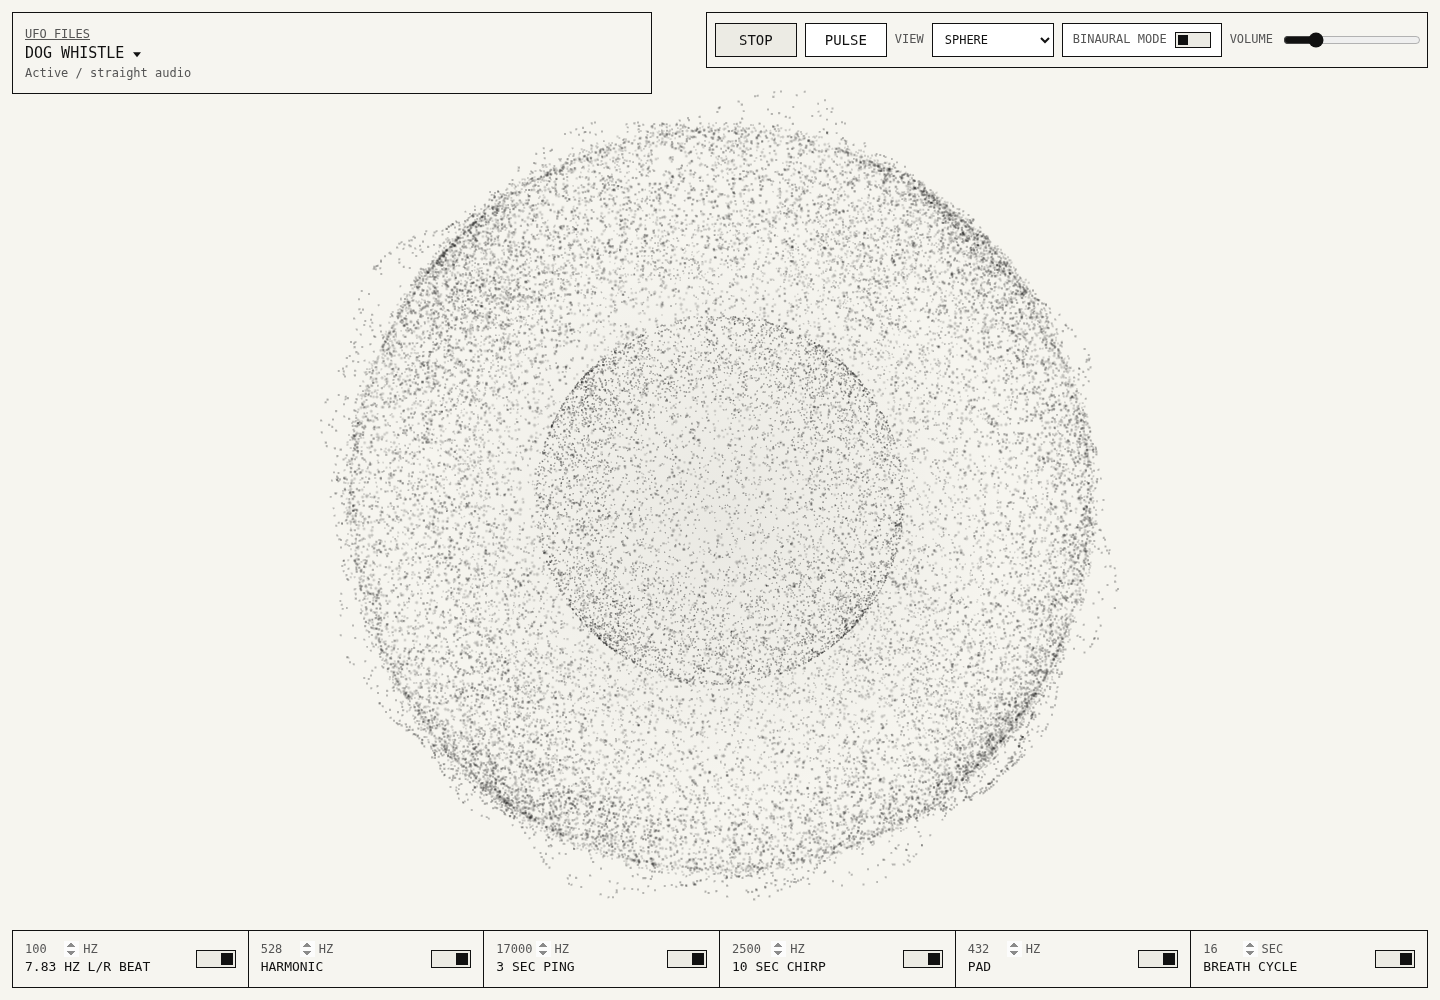
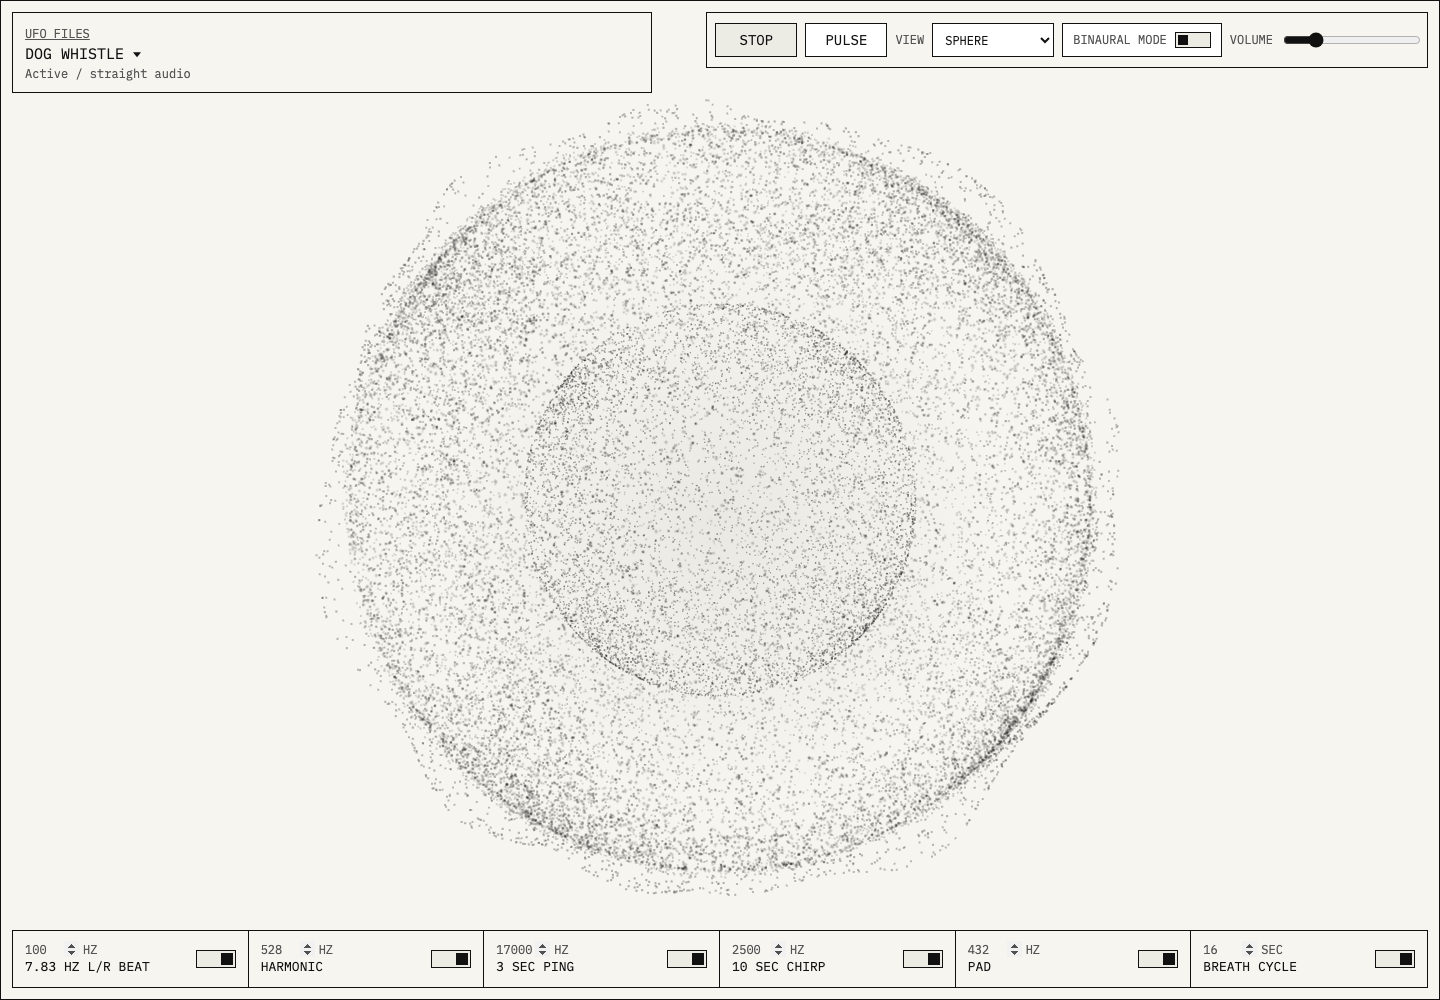
Add screenshot outline

diff --git a/scripts/capture_screenshots.js b/scripts/capture_screenshots.js
@@ -55,6 +55,24 @@ async function setVisualization(page, mode) {
 }
 
 async function capture(page, name) {
+  await page.evaluate(() => {
+    if (!document.getElementById("screenshot-outline-style")) {
+      const style = document.createElement("style");
+      style.id = "screenshot-outline-style";
+      style.textContent = `
+        html.screenshot-outline::after {
+          content: "";
+          position: fixed;
+          inset: 0;
+          border: 1px solid #111;
+          pointer-events: none;
+          z-index: 2147483647;
+        }
+      `;
+      document.head.appendChild(style);
+    }
+    document.documentElement.classList.add("screenshot-outline");
+  });
   await page.screenshot({
     path: path.join(OUTPUT_DIR, `${name}.png`),
     fullPage: false,